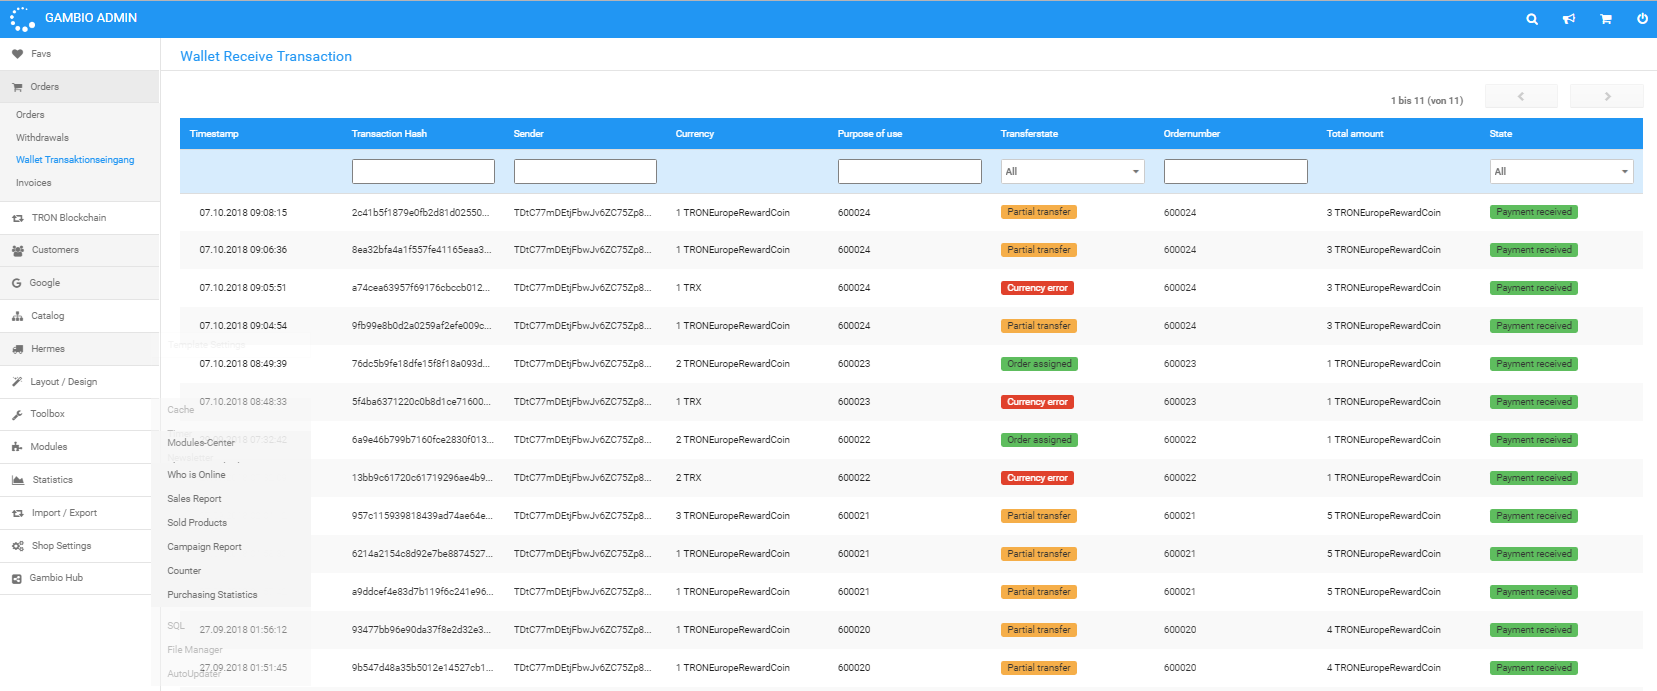
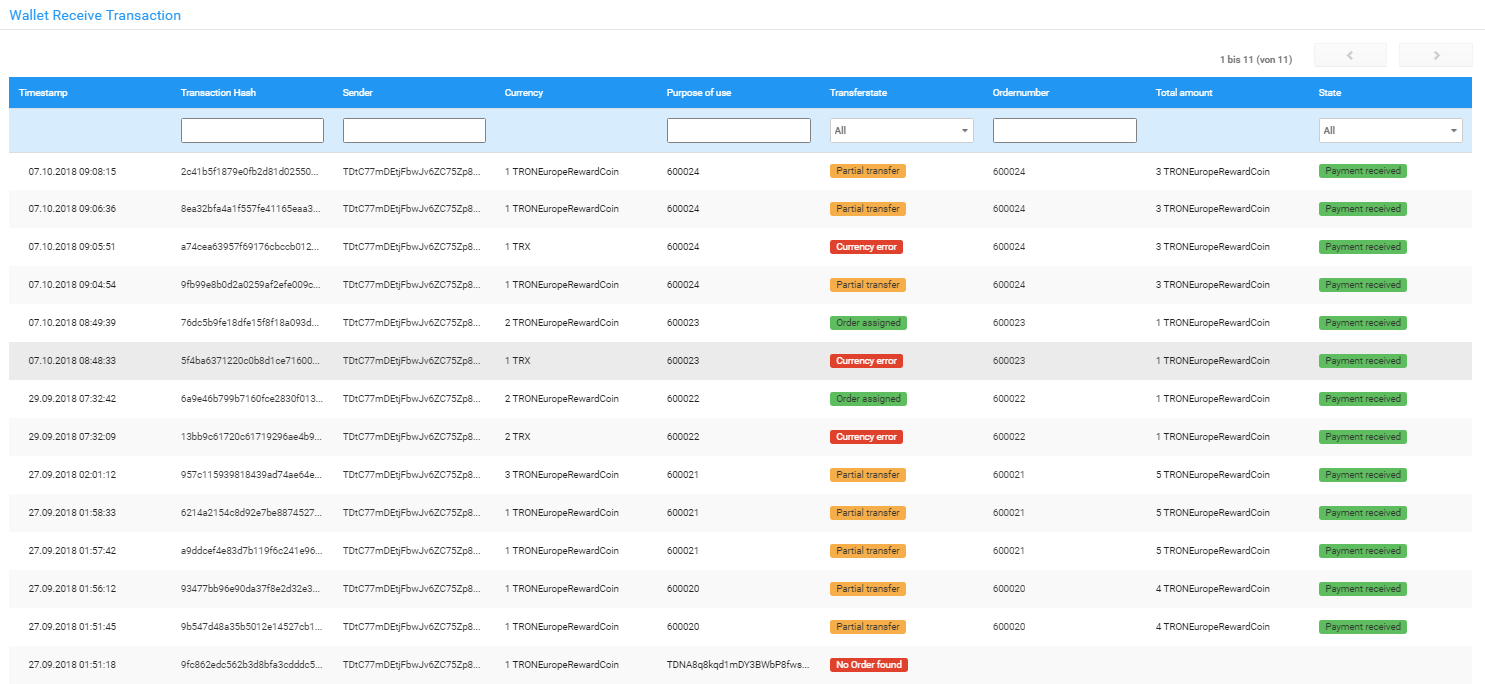
update readme

diff --git a/code/admin/tron-extension/php/inc/modal_order_information.php b/code/admin/tron-extension/php/inc/modal_order_information.php
@@ -95,7 +95,7 @@
 				  </div>
 				  <div class="trx-modal-header">
 					<table>
-					<tr><td class="td-global td-title"><p><img align="middle" src="./tron-extension/img/tron_icon_grey.png" width="26" height="26"></p></td><td><button type="button" onclick="ordersearch(\'change\',\'data\',\'trx-orderform\')" class="btn btn-primary save btn-data">Order zuweisen</button></td></tr>
+					<tr><td class="td-global td-title"><p><img align="middle" src="./tron-extension/img/tron_icon_grey.png" width="26" height="26"></p></td><td><button type="button" onclick="ordersearch(\'change\',\'data\',\'trx-orderform\')" class="btn btn-primary save btn-data">Order assign</button></td></tr>
 					</table>
 				  </div>';
 		}

diff --git a/README.md b/README.md
@@ -117,3 +117,5 @@ Release Date (full tested Version) : 30.09.2018
 ## LiveDemo
   <img width="80%" src="https://raw.githubusercontent.com/Tron-Europe-DevTeam/Gambio-TronBlockchainConnector/master/src/gambio01.png">
   <img width="80%" src="https://raw.githubusercontent.com/Tron-Europe-DevTeam/Gambio-TronBlockchainConnector/master/src/gambio02.png">
+  <img width="80%" src="https://raw.githubusercontent.com/Tron-Europe-DevTeam/Gambio-TronBlockchainConnector/master/src/gambio03.png">
+  <img width="80%" src="https://raw.githubusercontent.com/Tron-Europe-DevTeam/Gambio-TronBlockchainConnector/master/src/gambio04.png">
